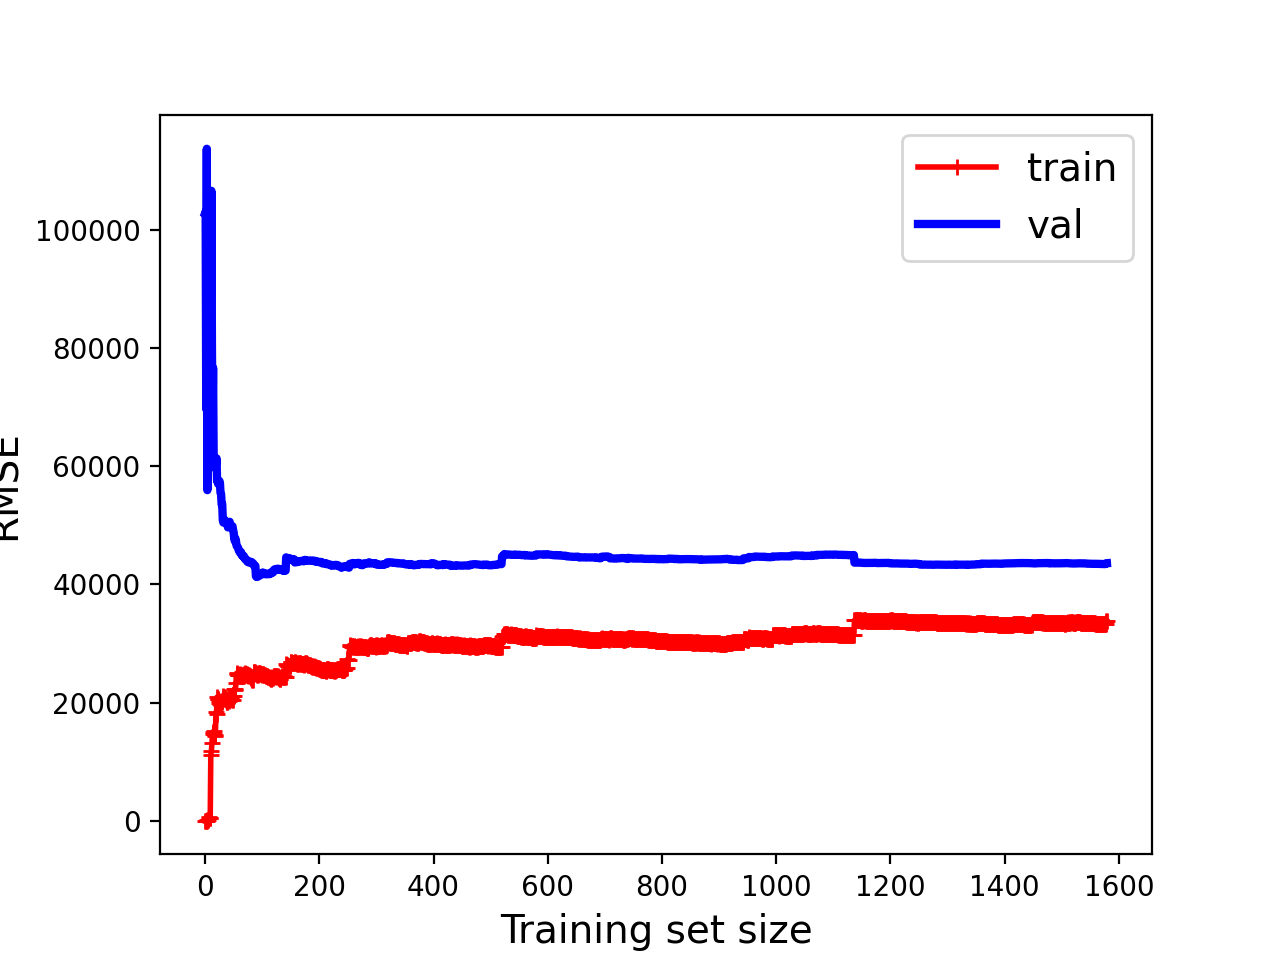
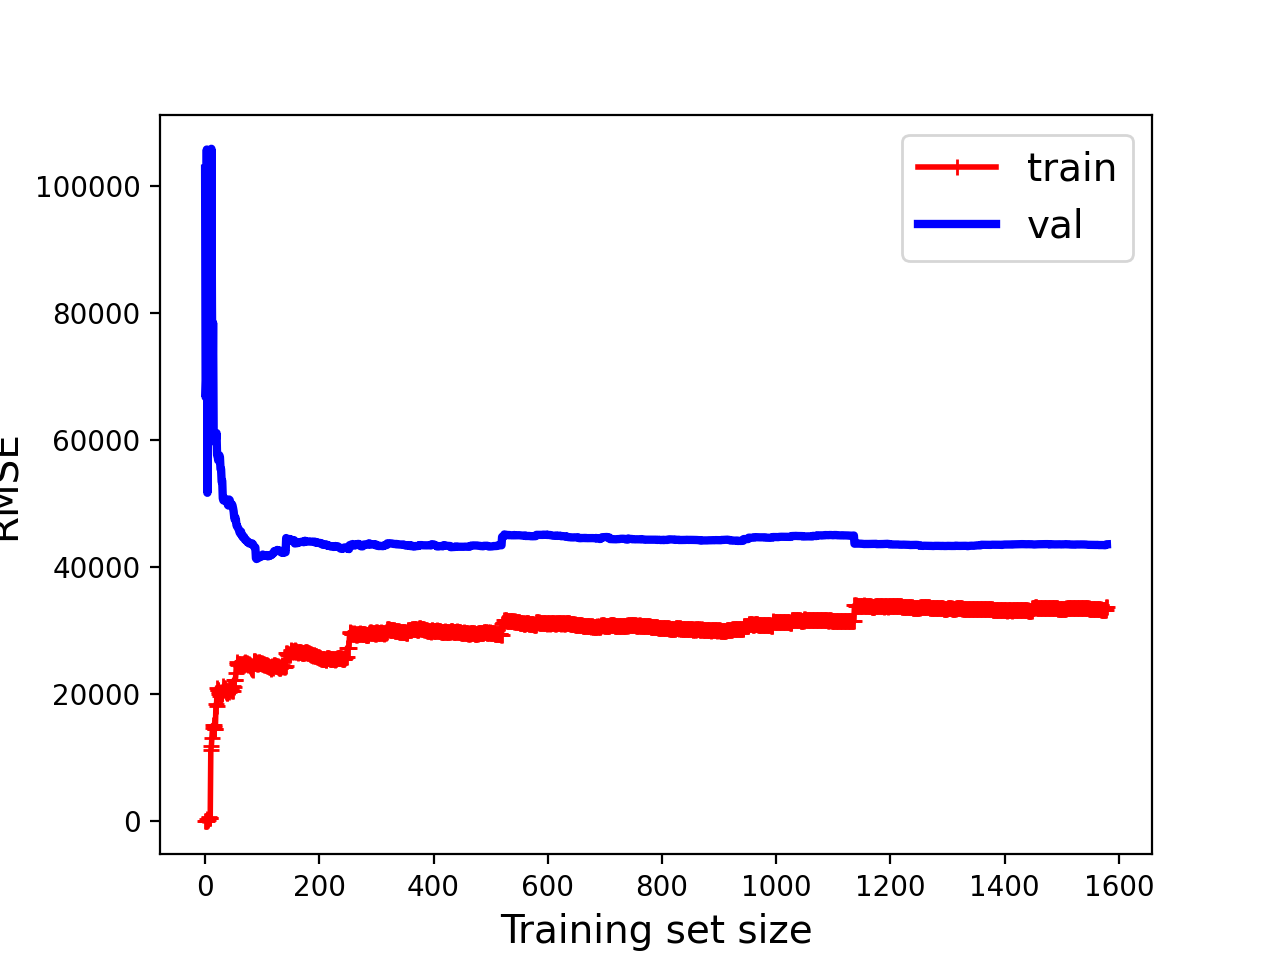
hold_out created

diff --git a/src/NewModelling.py b/src/NewModelling.py
@@ -288,6 +288,16 @@ plt.ylabel('score')
 plt.title('Lasso Model_data2')
 plt.savefig("graphs/ Lamdas_Lasso_Model_data2")
 
+#example Lasso
+example_lasso = Lasso(alpha = 1.75)
+example_lasso.fit(X_train2, y_train2)
+print(example_lasso.score(X_test2, y_test2))
+
+#plot learning curve
+plt.figure()
+plot_learning_curves(Lasso(alpha = 1.75), X_train2, y_train2)
+plt.savefig("graphs/ method1, lasso learining curve, data2")
+
 # Lasso Regressor L2, looking are more hyperparameters
 lasso_params = {'alpha': [0.02, 0.024, 0.025, 0.026, 0.03, 0.25, 0.5, 0.75, 1.0, 1.25, 1.5, 1.75, 2.0, 5.0, 10, 20, 15, 12, 8, 25, 30, 200],
                 "fit_intercept": [True, False],
@@ -331,8 +341,7 @@ plt.savefig("graphs/ElasticNet Model_data2")
 #Gridsearch Elastic Net
 elastic_params = {
     'alpha': [1e-15, 1e-10, 1e-8, 1e-4, 1e-2, 0.02, 0.024, 0.025, 0.026, 0.03, 1, 5, 10, 20, 200, 230, 250, 265,
-              270, 275, 290, 300, 500],
-'l1_ratio' : [0.4, 0.5 0.6, 0.7, 0.8, 0.9]}
+              270, 275, 290, 300, 500]}
 elastic_regressor = GridSearchCV(elastic_model, elastic_params, scoring='neg_mean_squared_error', cv=5)
 elastic_regressor.fit(X_train2, y_train2)
 print(f"best parameter Elastic Net:  {elastic_regressor.best_params_}")
@@ -344,7 +353,7 @@ plot_learning_curves(ElasticNet(alpha = 0.03), X_train2, y_train2)
 plt.savefig("graphs/learningcurve elasticnet_data2")
 
 chosen_model = ElasticNet(alpha = 0.03)
-X_test2 = X_test2.fillna(0) #error with NaN values, how to fix?
+
 #Elastic Net Model
 chosen_model.fit(X_train2, y_train2)
 

diff --git a/src/modelling.py b/src/modelling.py
@@ -119,7 +119,10 @@ print(f"beste parameter Ridge: {ridge_regressor.best_params_}")
 print(f"best score Ridge: {ridge_regressor.best_score_}")
 
 #plot learning curves
+plt.figure()
 plot_learning_curves(Ridge( alpha = 5, fit_intercept = True, solver = 'svd'), X_train, y_Train)
+plt.title("Ridge, 5 features")
+plt.savefig("graphs/ridge data1 learning curve")
 
 #Lasso Regression
 cross_val_scores_lasso = []
@@ -221,3 +224,14 @@ plt.legend(loc = "upper left")
 plt.plot([10.5, 13.5], [10.5, 13.5], c = "red")
 plt.savefig("graphs/predictedvaluesElasticNet")
 
+
+print(
+    evaluate_model(
+        chosen_model,
+        test_data.drop(columns="SalePrice"),
+        test_data["SalePrice"],
+        train=True,
+        Xtrain=all_data.drop(columns="SalePrice"),
+        ytrain=all_data["SalePrice"],
+    )
+)

diff --git a/src/evaluation.py b/src/evaluation.py
@@ -1,8 +1,9 @@
-from modelling import chosen_model, ridge_model
+#from modelling import chosen_model, ridge_model
 
 data_dir = Path("data/")
 all_data = pd.read_csv(data_dir / "housing-data.csv", index_col="Order")
 test_data = pd.read_csv(data_dir / "hold-out.csv", index_col="Order")
+
 
 
 def evaluate_model(
@@ -31,6 +32,7 @@ def evaluate_model(
     mse = mean_squared_error(ytest, ypred)
     return {"r2": r2, "mae": mae, "mse": mse}
 
+chosen_model = ElasticNet(alpha = 0.03)
 
 print(
     evaluate_model(
@@ -42,3 +44,4 @@ print(
         ytrain=all_data["SalePrice"],
     )
 )
+
